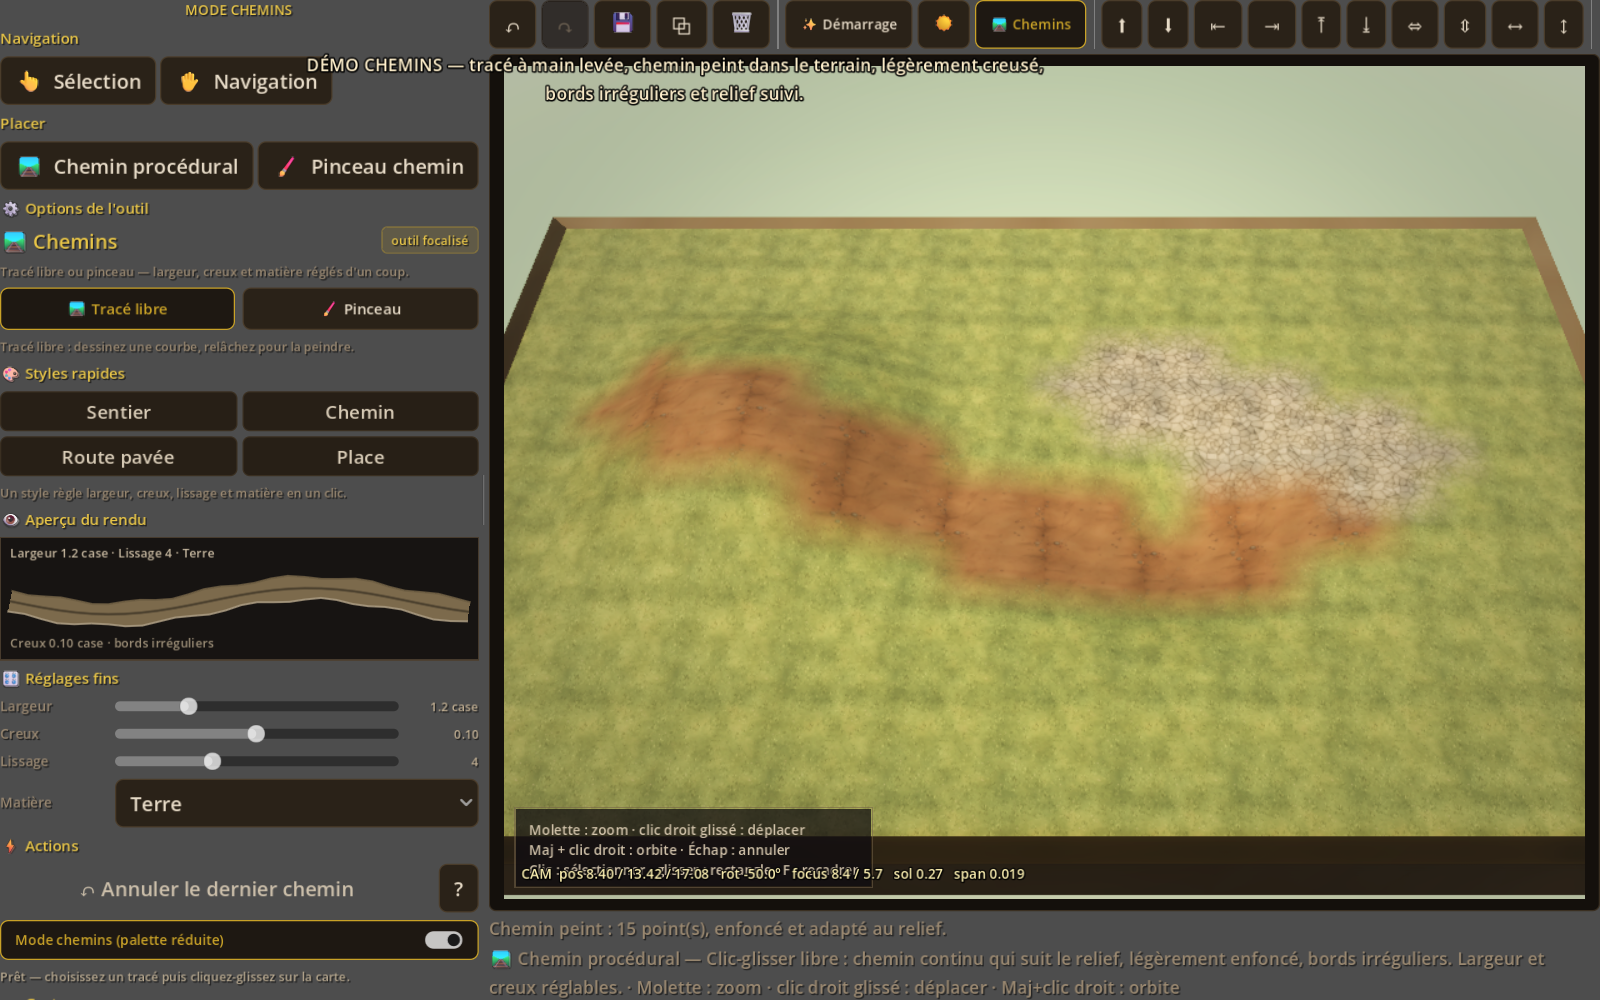
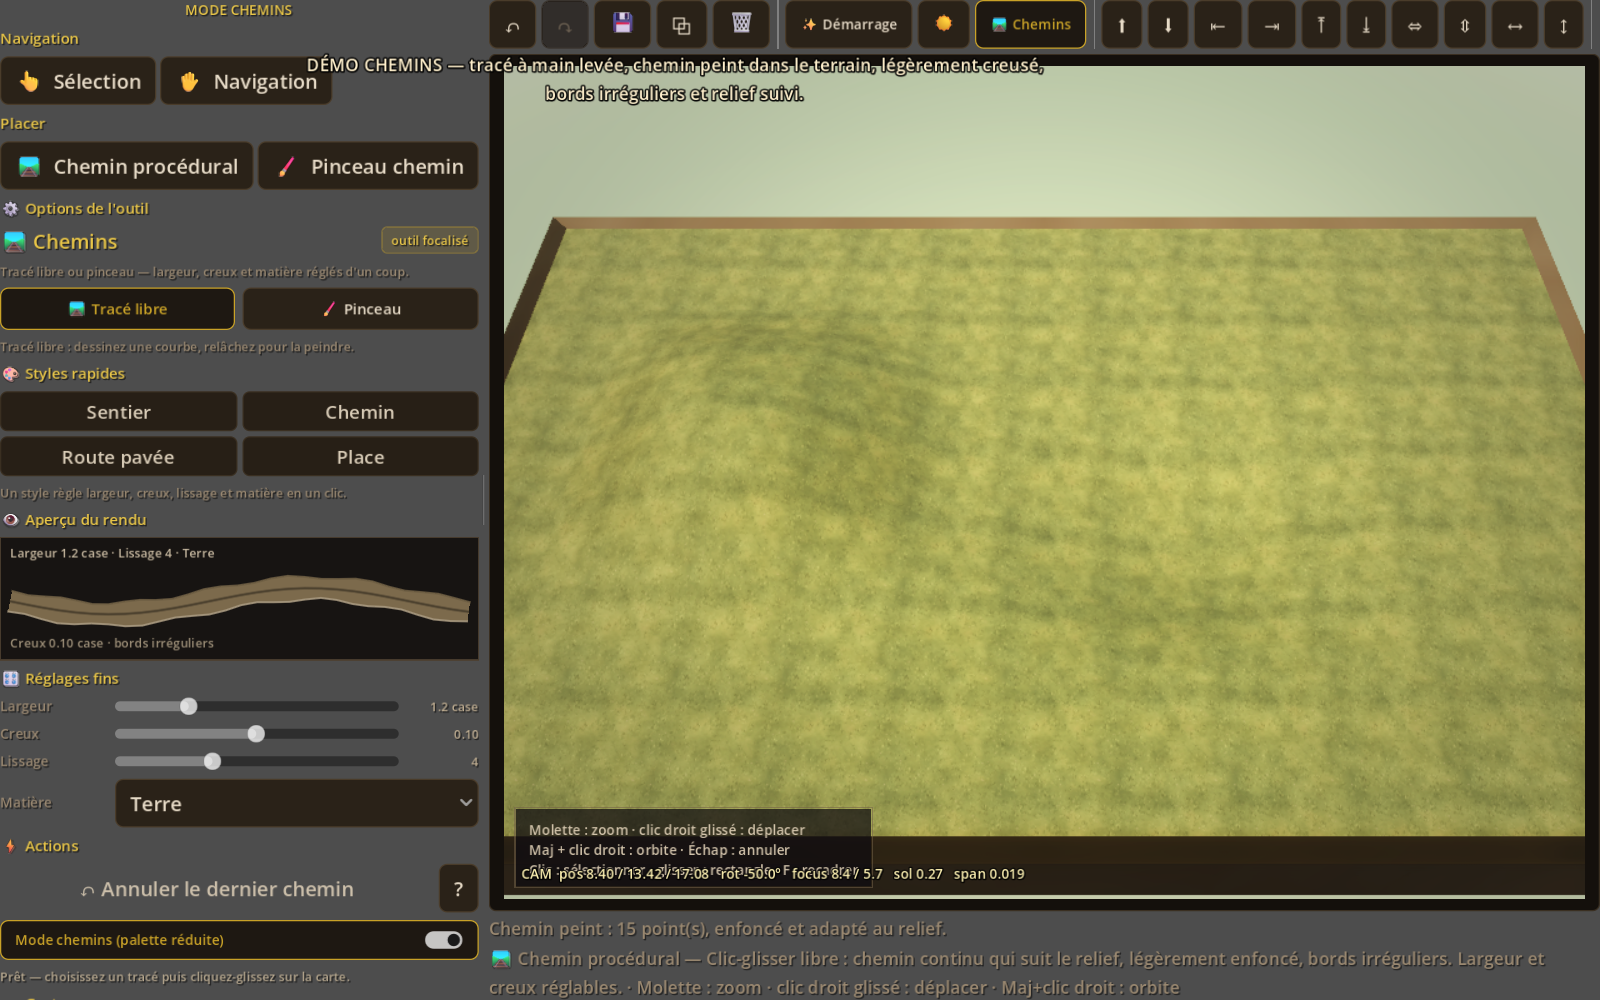
feat(chemins): ruban 3D Godot conforme, UV le long du tracé et bords fondus

Changed region(s): [[0.375, 0.341, 0.9375, 0.62]]

diff --git a/docs/CHEMINS_PROCEDURAUX.md b/docs/CHEMINS_PROCEDURAUX.md
@@ -54,14 +54,24 @@ ou via `GOOGLE_BANANA_API_KEY`. Un seul appel API a été fait pour l’instant.
 lectures tournées/décalées (`sample_anti_tile`) et une variation macro. Cela
 casse la sensation de carrelage sans coût de texture supplémentaire.
 
+## Rendu 100 % Godot
+
+Le chemin est désormais un **ruban 3D cuit en coordonnées monde** (plus de patch
+Blender) :
+
+- UV **le long du tracé** (pas de projection horizontale) ;
+- centre opaque, **bords alpha irréguliers** fondus dans l'herbe ;
+- shader `path_ribbon` : `blend_mix + depth_draw_opaque` (pas de tri transparent
+  cassé) + échantillonnage anti-carrelage à deux lectures ;
+- le terrain est **creusé** sous le chemin (le creux reste en herbe sous les
+  bords transparents du ruban).
+
 ## Limites actuelles
 
-- les UV des chemins peints sont **planaires** (UV du terrain), pas des UV le
-  long du tracé ;
-- le maillage du terrain reste **uniforme** : un chemin peint n’ajoute pas de
-  triangles ;
-- l’overlay de chemin texturé avec UV le long du tracé existe dans le code mais
-  n’est pas encore activé, car son raccord au terrain n’est pas assez propre.
+- le maillage du terrain reste **uniforme** : un chemin n’ajoute pas encore de
+  triangles au terrain lui-même (le ruban, lui, s'adapte à la pente) ;
+- la densité de détail du ruban est pilotée par la rugosité du terrain, pas
+  encore par un LOD global.
 
 ## Démo
 
